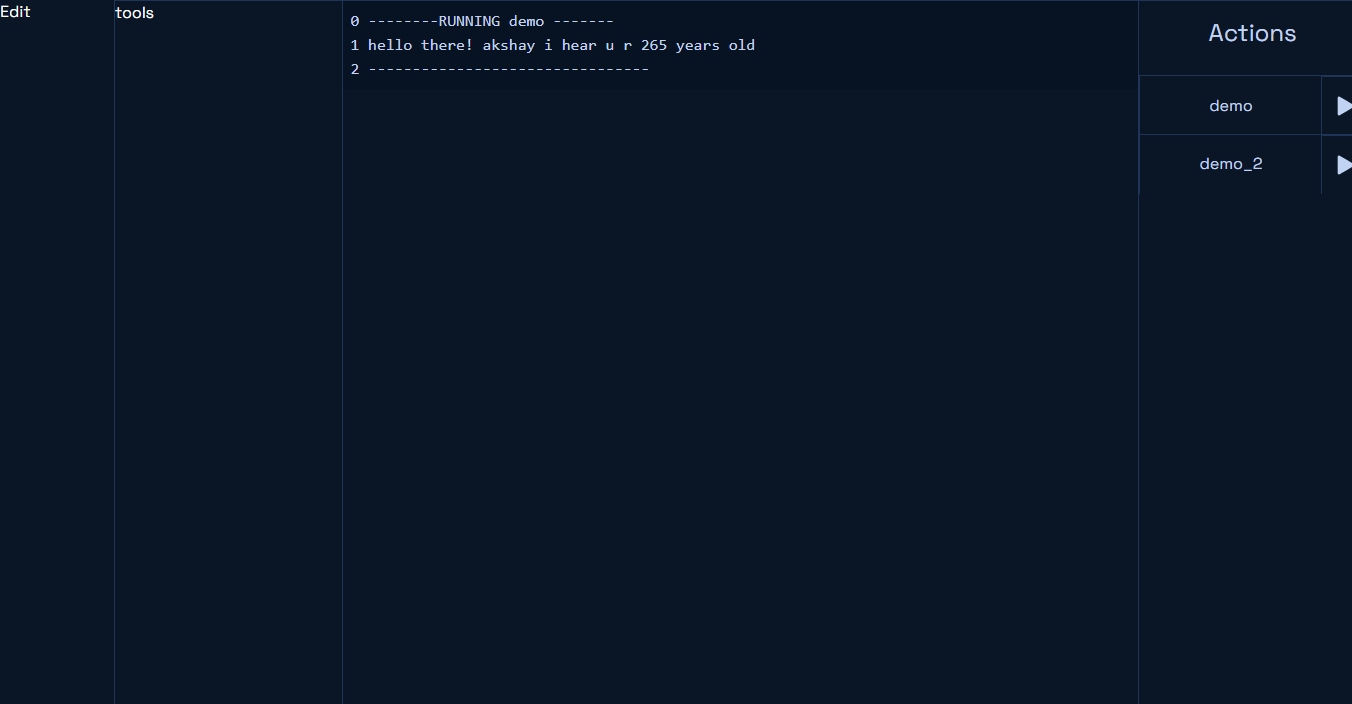
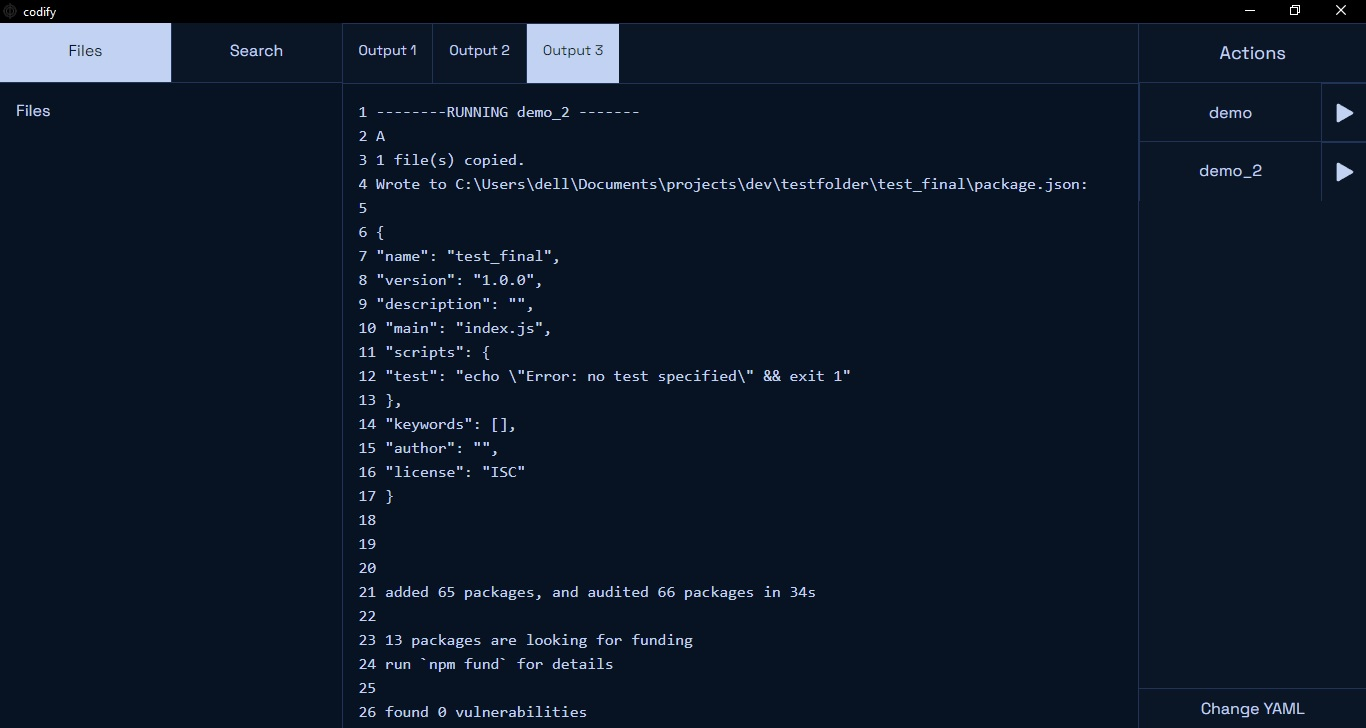
edit: changed ui a bit to incorporate the files and search tabs

diff --git a/src/routes/App.svelte b/src/routes/App.svelte
@@ -11,6 +11,15 @@
 
   import { open } from '@tauri-apps/api/dialog';
 
+  import TabContentItem from './TabContentItem.svelte';
+	import TabHead from './TabHead.svelte';
+	import TabHeadItem from './TabHeadItem.svelte';
+	import TabWrapper from './TabWrapper.svelte';
+
+	let activeTabValue = 1;
+	const handleClick = (tabValue: number) => () => {
+		activeTabValue = tabValue;
+	};
   export const log = writable(new Array<TOutputData>());
   setContext<Writable<TOutputData[]>>('log',log);
 
@@ -49,15 +58,26 @@
 </script>
 {#if config!=-1}
 <div class="font-['Space_Grotesk'] grid grid-rows-12 grid-cols-12 w-full h-svh bg-[#0A1626] divide-[#203359] divide-x divide-y overflow-hidden">  
-  <div class="col-span-1 bg-[#0A1626]  h-screen grid grid-rows-12 gap-0 divide-y divide-[#203359]">
-    <!-- <button on:click={()=>editYAML()} class="text-center w-full hover:bg-[#C2D2F2] text-[#C2D2F2] hover:text-[#0A1626]">Edit YAML </button> -->
-    <button on:click={()=>swapYAML()} class="text-center w-full hover:bg-[#C2D2F2] text-[#C2D2F2] hover:text-[#0A1626]">Change YAML </button>
+  <div class="col-span-3 bg-[#0A1626]  h-screen relative text-[#C2D2F2]">
+     
+    <TabWrapper>
+    	<TabHead fullType={true}>
+            <TabHeadItem fullType={true} id={1} on:click={handleClick(1)} {activeTabValue}><div class="">Files</div></TabHeadItem>
+            <TabHeadItem fullType={true} id={2} on:click={handleClick(2)} {activeTabValue}><div class="">Search</div></TabHeadItem>
+    	</TabHead>            
+      <TabContentItem id={1} on:click={handleClick(1)} {activeTabValue}>
+        Files
+      </TabContentItem>
+      <TabContentItem id={2} on:click={handleClick(2)} {activeTabValue}>
+        Search
+      </TabContentItem>
+      
+    </TabWrapper>
   </div>
-  <div class="col-span-2 bg-[#0A1626]  h-screen">tools</div>
   <div class="col-span-7 bg-[#0A1626]  h-screen"><Main/></div>
-  <div class="col-span-2 bg-[#0A1626]  h-screen">
+  <div class="col-span-2 bg-[#0A1626]  h-screen relative divide-y divide-[#203359]">
     <Actions actions={config.actions} baseLocation={config.baseLocation}/>
-  </div>
+    <button on:click={()=>swapYAML()} class="text-center w-full py-2 hover:bg-[#C2D2F2] text-[#C2D2F2] hover:text-[#0A1626] absolute bottom-0">Change YAML </button>  </div>
 </div>
 {:else}
 Internal error :P

diff --git a/src/routes/TabHeadItem.svelte b/src/routes/TabHeadItem.svelte
@@ -2,19 +2,19 @@
   // adding active class
   //import classNames from 'classnames';
   export let id;
+  export let fullType;
   export let activeTabValue
-  export let inactiveClass = 'h-full text-center align-text-middle align-center inline-block py-4 px-4 text-sm text-center hover:bg-[#C2D2F2] text-[#C2D2F2] hover:text-[#0A1626] text-[#C2D2F2]'
-  export let activeClass = 'h-full text-center align-text-middle align-center inline-block py-4 px-4 text-sm text-center bg-[#C2D2F2] text-[#0A1626]'
-  const liClass = ''
+  export let inactiveClass = 'h-full text-center align-text-middle align-center py-4 px-4 text-center hover:bg-[#C2D2F2] text-[#C2D2F2] hover:text-[#0A1626] text-[#C2D2F2] text-sm'+(fullType?'col-span-1':'')
+  export let activeClass = 'h-full text-center align-text-middle align-center py-4 px-4 text-center bg-[#C2D2F2] text-[#0A1626] text-sm'+(fullType?'col-span-1':'')
+  const liClass = ' w-full'
 </script>
 
-<li class={liClass} role="presentation">
-  <button
+<li role="presentation"
+
     on:click
     class={activeTabValue === id ? activeClass : inactiveClass}
     id="{id}-tabhead"
-    type="button"
-    role="tab">
+    >
     <slot />
-  </button>
+
 </li>

diff --git a/src/routes/Actions.svelte b/src/routes/Actions.svelte
@@ -10,7 +10,7 @@
 </script>
   
 <div class="h-full w-full place-content-stretch place-items-center text-center align-text-middle align-center grid grid-rows-12 items-center divide-[#203359] divide-x divide-y">
-  <div class="text-[#C2D2F2] text-2xl font-['Space Grotesk'] place-content-stretch text-center place-items-center align-text-middle w-full h-full grid">Actions</div>
+  <div class="text-[#C2D2F2] text-lg font-['Space Grotesk'] place-content-stretch text-center place-items-center align-text-middle w-full h-full grid">Actions</div>
     {#each actions as action}
         <Action {action} {baseLocation}/>
     {/each}

diff --git a/src/routes/TabHead.svelte b/src/routes/TabHead.svelte
@@ -1,8 +1,9 @@
 <script>
+export let fullType;
 </script>
 
-<div class="">
-  <ul class='flex flex-wrap -mb-px divide-x divide-[#203359] row-span-1 place-content-stretch'  role="tablist">
-    <slot />
+<div class="row-span-1">
+  <ul class='flex flex-wrap -mb-px divide-x divide-[#203359] h-full place-content-stretch {fullType?'grid grid-cols-2':''}'  role="tablist">
+    <slot {fullType}/>
   </ul>
 </div>

diff --git a/src/routes/TabContentItem.svelte b/src/routes/TabContentItem.svelte
@@ -1,7 +1,7 @@
 <script lang="ts">
   export let activeTabValue;
   export let id;
-  export let contentDivClass = 'p-4 bg-[#071222] text-[#C2D2F2] overflow-hidden text-ellipsis h-full';
+  export let contentDivClass = 'p-4 bg-[#071222] text-[#C2D2F2] overflow-hidden text-ellipsis h-full row-span-11';
 </script>
 
 {#if activeTabValue === id}

diff --git a/src/routes/Main.svelte b/src/routes/Main.svelte
@@ -33,7 +33,7 @@
 
 {#if $logHandle.length > 0}
 <TabWrapper>
-	<TabHead>
+	<TabHead fullType={false}>
         {#each {length:(($logHandle)[$logHandle.length-1].commandCount)} as _,j}
             <TabHeadItem id={j+1} on:click={handleClick(j+1)} {activeTabValue}>Output {j+1}</TabHeadItem>
         {/each}
